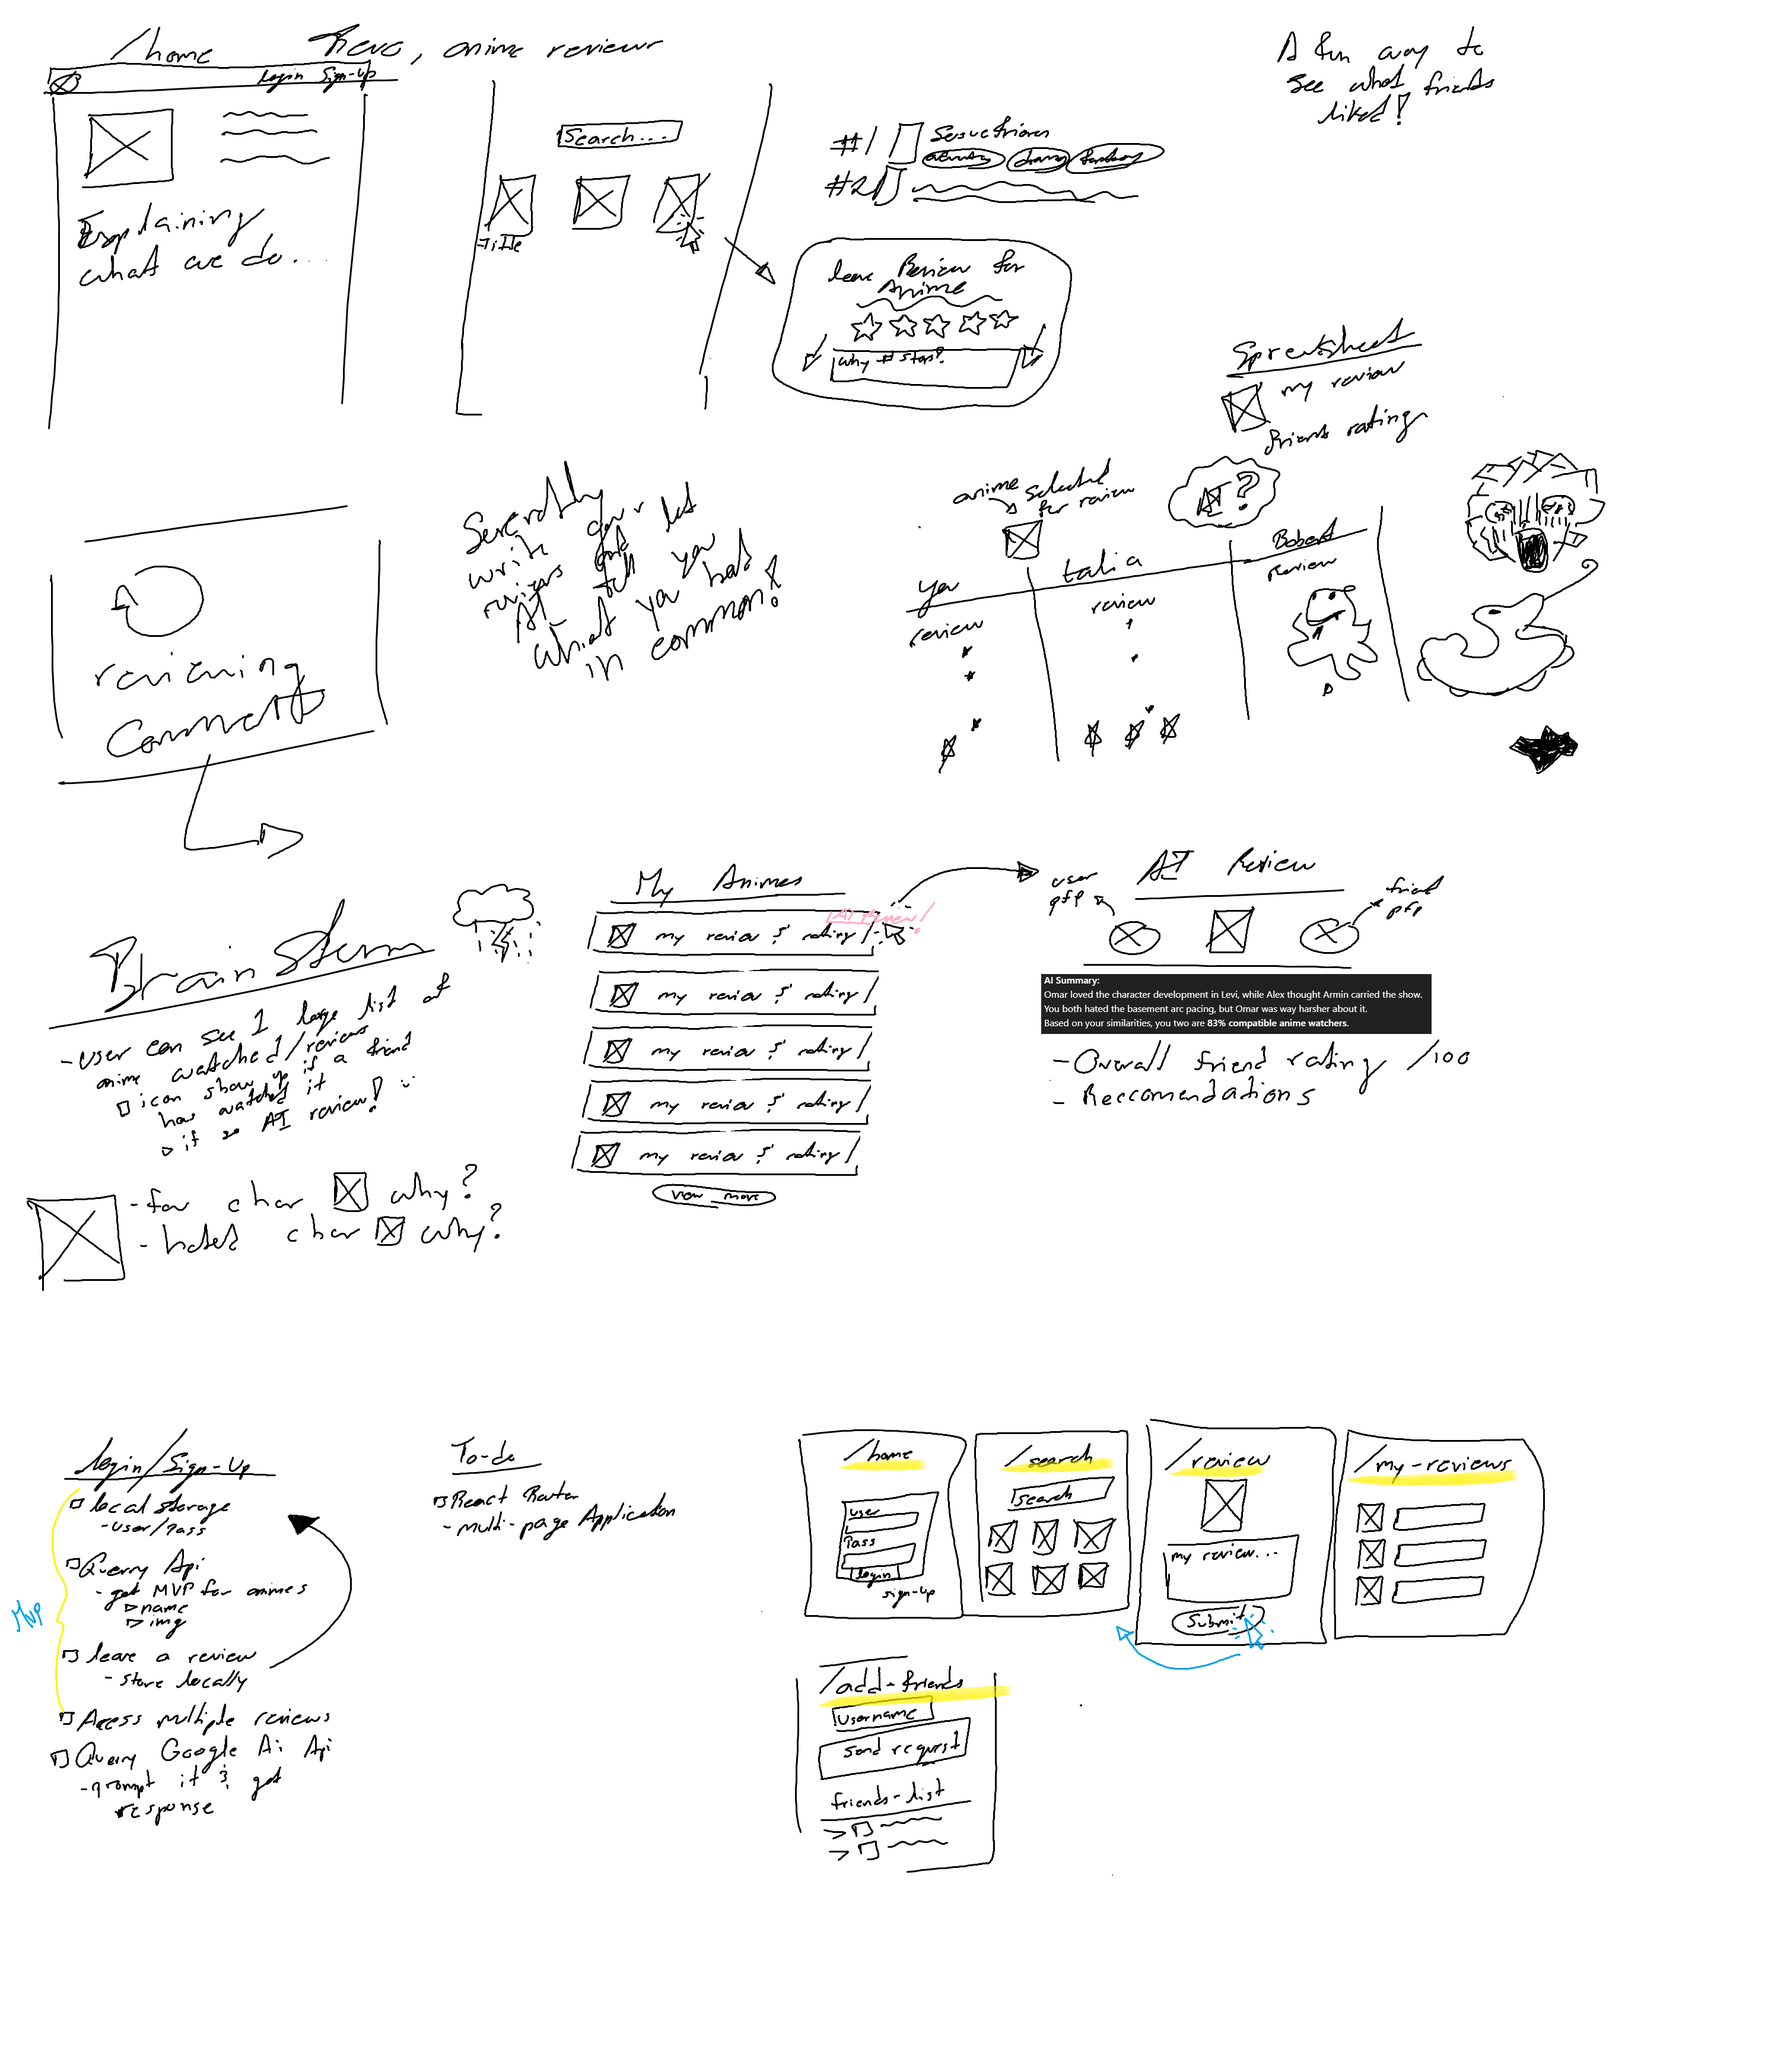
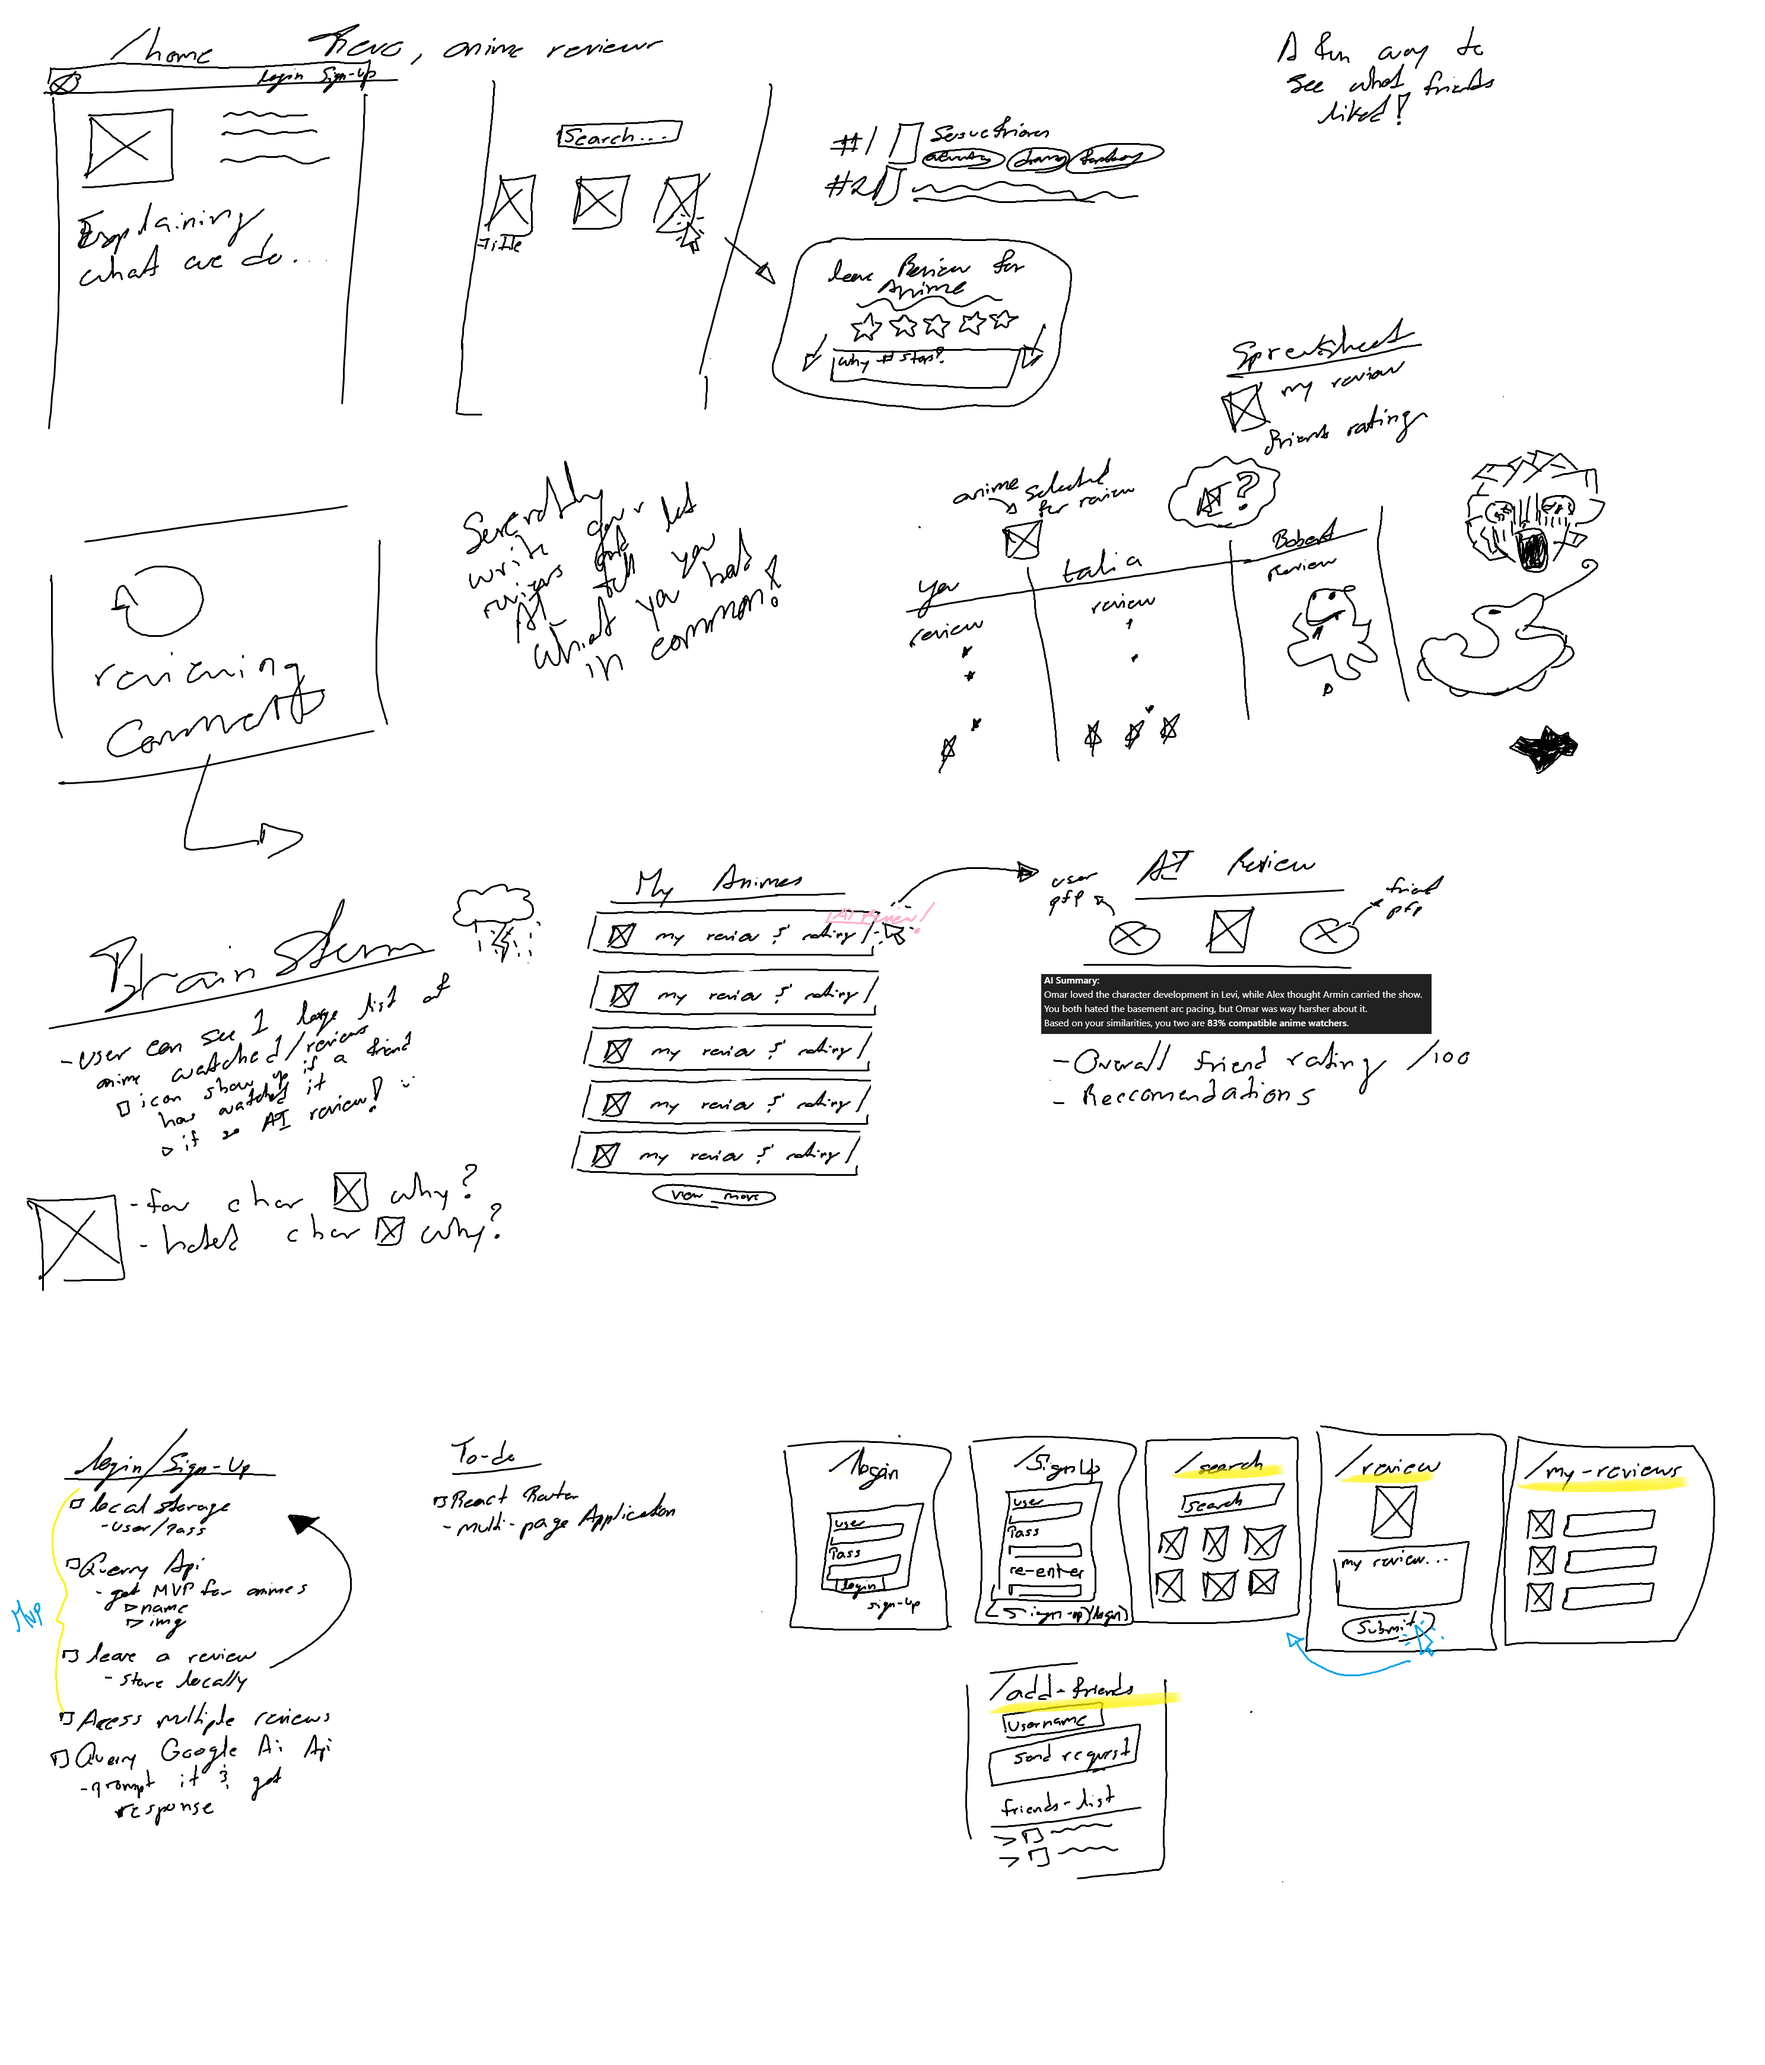
added all MVP Routes

Changed region(s): [[0.4639, 0.683, 0.9587, 0.9003]]

diff --git a/src/App.jsx b/src/App.jsx
@@ -1,34 +1,25 @@
-import { useState } from "react";
-import reactLogo from "./assets/react.svg";
-import viteLogo from "/vite.svg";
 import "./App.css";
 
-function App() {
-  const [count, setCount] = useState(0);
+import { HashRouter, Routes, Route } from "react-router-dom";
+import { Login } from "./Pages/Login";
+import { SignUp } from "./Pages/SignUp";
+import { Friends } from "./Pages/Friends";
+import { MyReviews } from "./Pages/MyReviews";
+import { Search } from "./Pages/Search";
+import { Review } from "./Pages/Review";
 
+function App() {
   return (
-    <>
-      <div>
-        <a href="https://vite.dev" target="_blank">
-          <img src={viteLogo} className="logo" alt="Vite logo" />
-        </a>
-        <a href="https://react.dev" target="_blank">
-          <img src={reactLogo} className="logo react" alt="React logo" />
-        </a>
-      </div>
-      <h1>Vite + React</h1>
-      <div className="card">
-        <button onClick={() => setCount((count) => count + 1)}>
-          count is {count}
-        </button>
-        <p>
-          Edit <code>src/App.jsx</code> and save to test HMR
-        </p>
-      </div>
-      <p className="read-the-docs">
-        Click on the Vite and React logos to learn more
-      </p>
-    </>
+    <HashRouter>
+      <Routes>
+        <Route path="/" element={<Login />} />
+        <Route path="/SignUp" element={<SignUp />} />
+        <Route path="/Friends" element={<Friends />} />
+        <Route path="/MyReviews" element={<MyReviews />} />
+        <Route path="/Review" element={<Review />} />
+        <Route path="/Search" element={<Search />} />
+      </Routes>
+    </HashRouter>
   );
 }
 

diff --git a/src/Pages/MyReviews.jsx b/src/Pages/MyReviews.jsx
@@ -1,0 +1,7 @@
+export function MyReviews() {
+  return (
+    <>
+      <h1>This is the MyReviews Page</h1>
+    </>
+  );
+}

diff --git a/src/Pages/Friends.jsx b/src/Pages/Friends.jsx
@@ -1,0 +1,7 @@
+export function Friends() {
+  return (
+    <>
+      <h1>This is the Friends Page</h1>
+    </>
+  );
+}

diff --git a/src/Pages/Review.jsx b/src/Pages/Review.jsx
@@ -1,0 +1,7 @@
+export function Review() {
+  return (
+    <>
+      <h1>This is the Review Page</h1>
+    </>
+  );
+}

diff --git a/src/Pages/Search.jsx b/src/Pages/Search.jsx
@@ -1,0 +1,7 @@
+export function Search() {
+  return (
+    <>
+      <h1>This is the Search Page</h1>
+    </>
+  );
+}

diff --git a/src/Pages/SignUp.jsx b/src/Pages/SignUp.jsx
@@ -1,0 +1,7 @@
+export function SignUp() {
+  return (
+    <>
+      <h1>This is the SignUp Page</h1>
+    </>
+  );
+}

diff --git a/src/Pages/Login.jsx b/src/Pages/Login.jsx
@@ -1,0 +1,7 @@
+export function Login() {
+  return (
+    <>
+      <h1>This is the login Page</h1>
+    </>
+  );
+}
